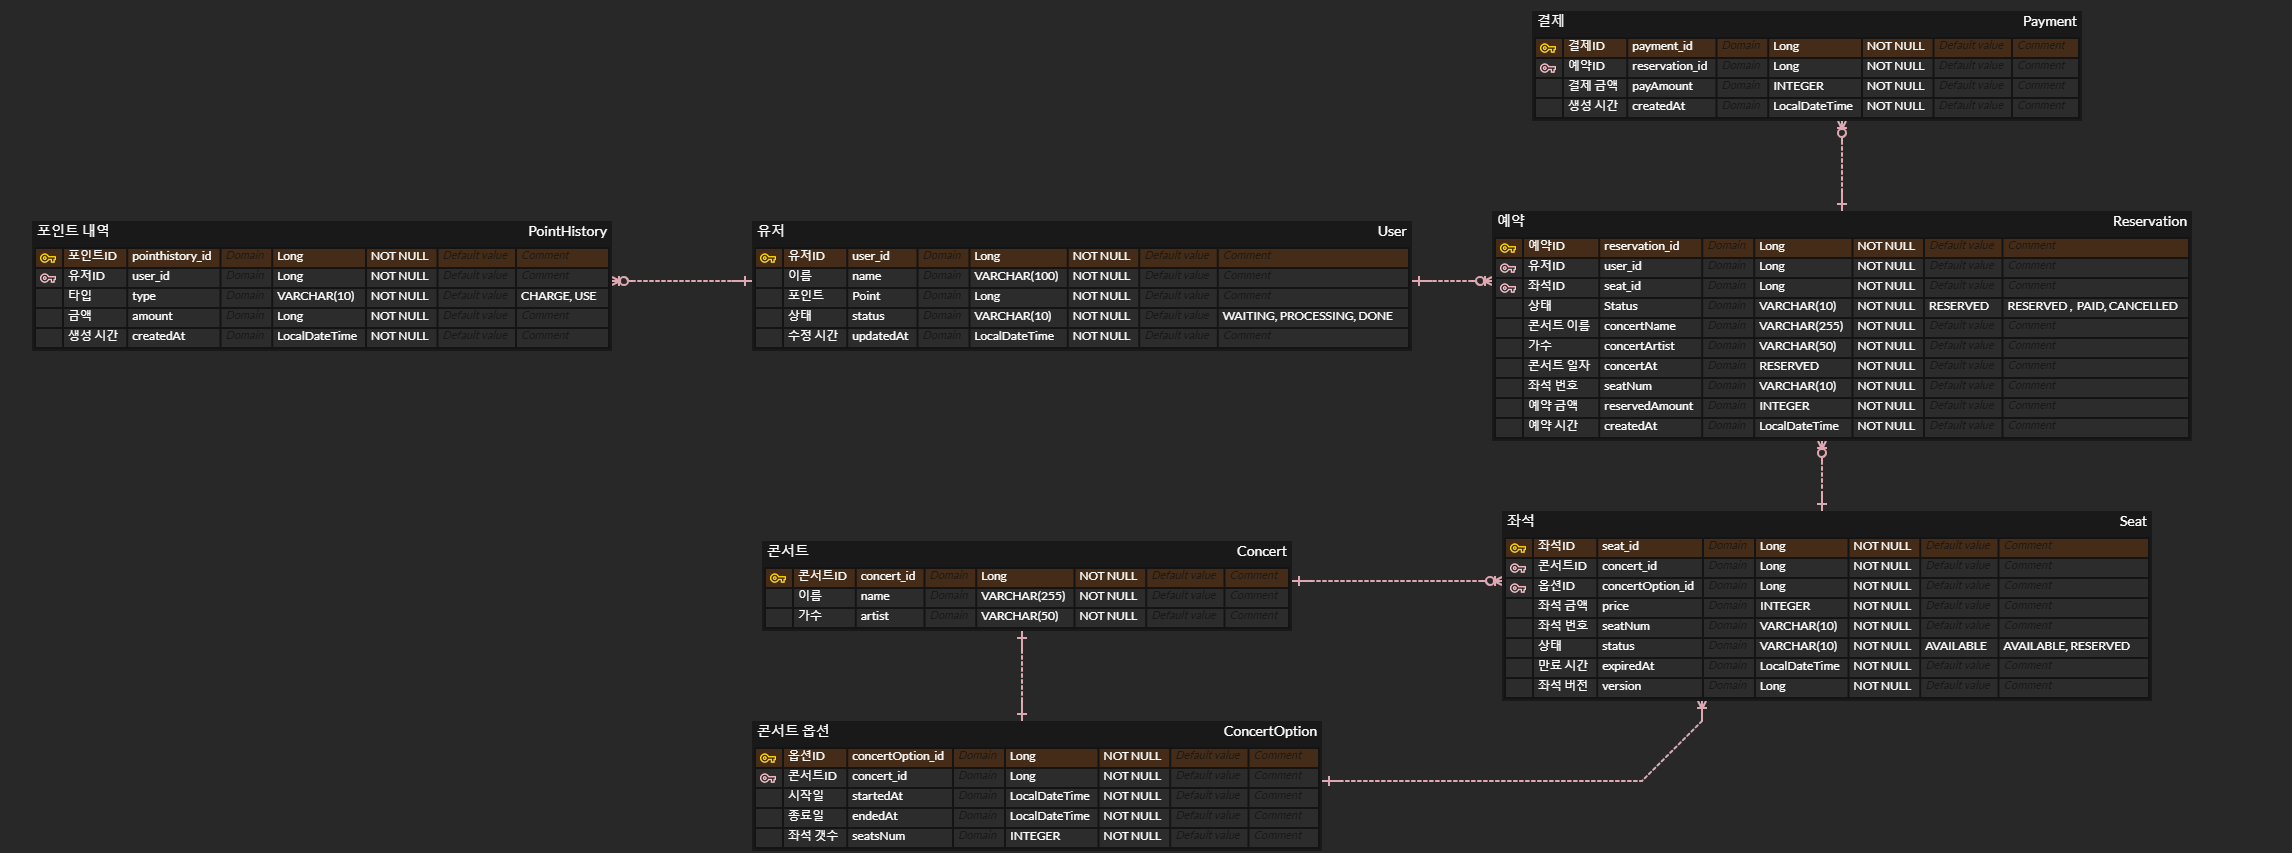
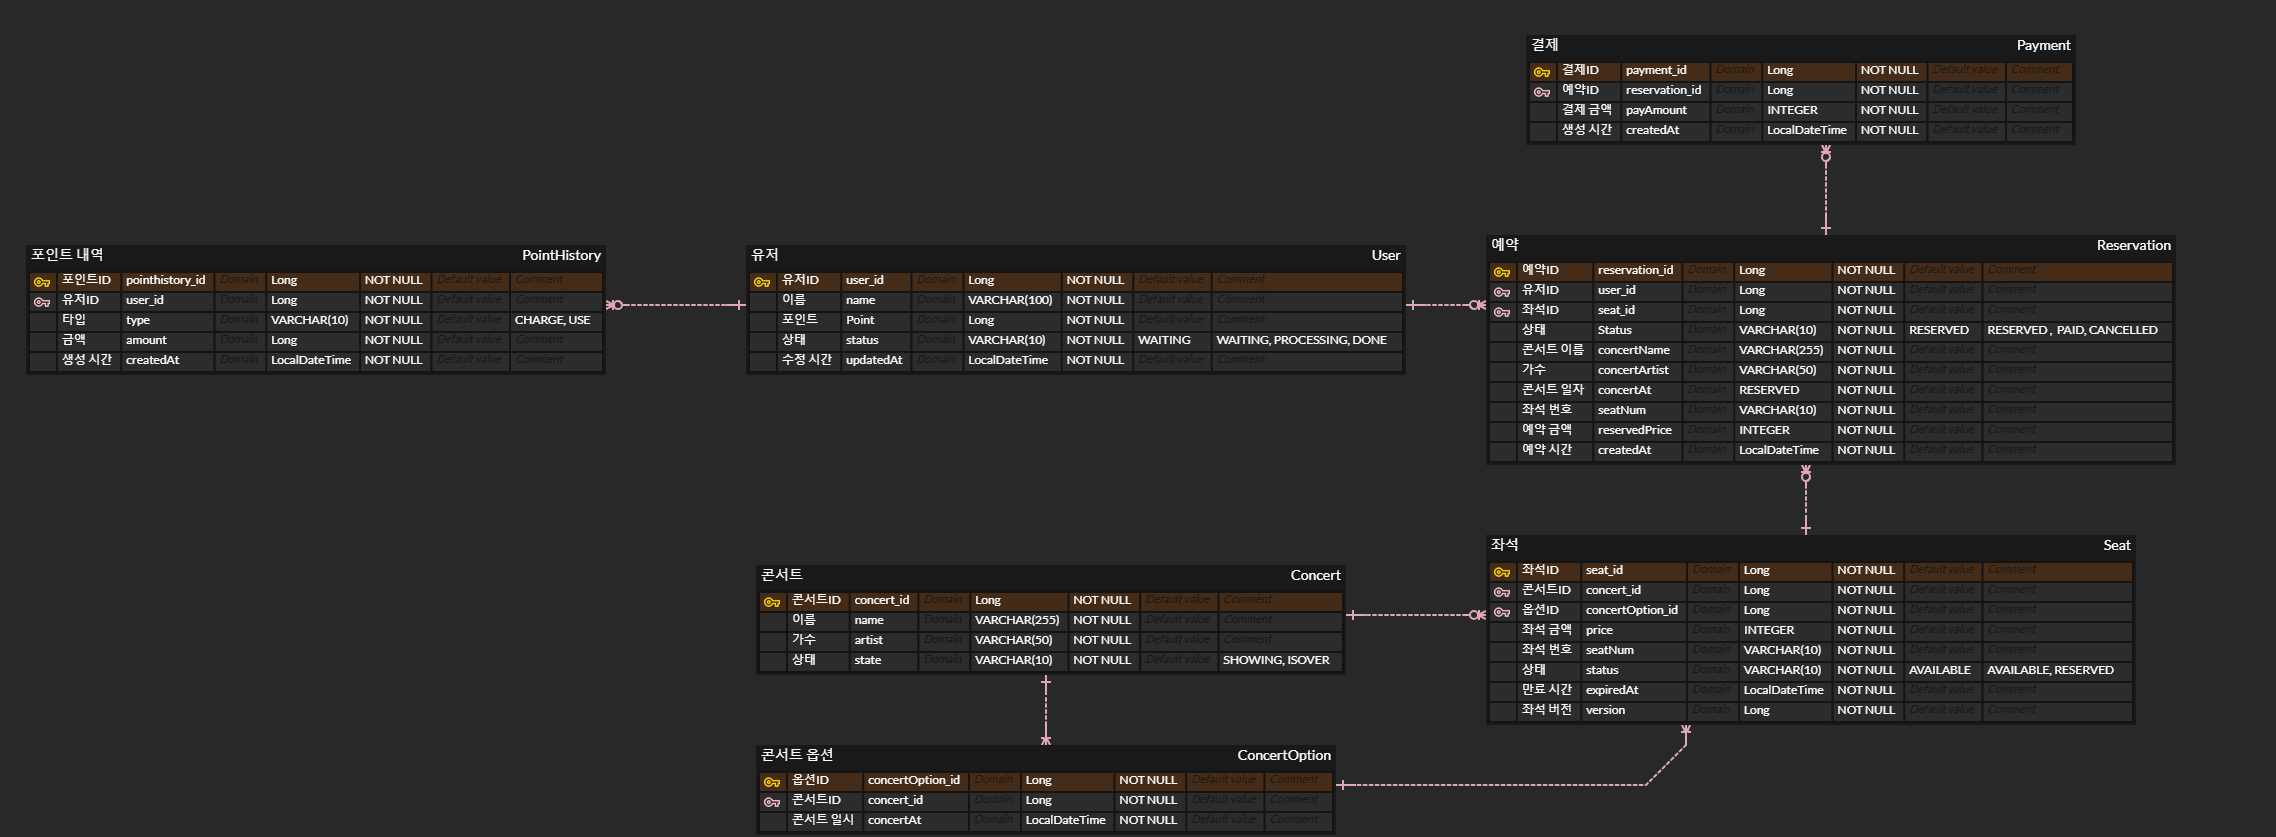
ERD 수정 / 예약 로직 수정

diff --git a/src/test/java/hhplus/serverjava/api/usecase/reservation/MakeReservationUseCaseTest.java b/src/test/java/hhplus/serverjava/api/usecase/reservation/MakeReservationUseCaseTest.java
@@ -47,7 +47,7 @@ public class MakeReservationUseCaseTest {
     */
     @DisplayName("낙관적 락 테스트") // TODO: ING
     @Test
-    void optimistic_lock_test() throws InterruptedException, ExecutionException {
+    void optimistic_lock_test() {
         //given
         ExecutorService executor = Executors.newFixedThreadPool(50);    // 50명이라고 가정
         List<CompletableFuture> futures = new ArrayList<>();
@@ -82,7 +82,7 @@ public class MakeReservationUseCaseTest {
 
             CompletableFuture<Void> future = CompletableFuture.runAsync(() -> {
                 try {
-                    PostReservationRes result = makeReservationUseCase.makeReservation(user, concertId, targetDate, seatNum, reservedAmount);
+                    PostReservationRes result = makeReservationUseCase.makeReservation(user, concertId, targetDate, seatNum);
                     successCnt.incrementAndGet();
                 } catch (BaseException e) {
                     log.error("BaseException : {}", e);

diff --git a/src/main/java/hhplus/serverjava/api/usecase/reservation/MakeReservationUseCase.java b/src/main/java/hhplus/serverjava/api/usecase/reservation/MakeReservationUseCase.java
@@ -29,7 +29,7 @@ public class MakeReservationUseCase {
     private final ConcertOptionReader concertOptionReader;
 
     // 좌석 예약
-    public PostReservationRes makeReservation(User user, Long concertOptionId, LocalDateTime targetDate, int seatNum, int reservedAmount) {
+    public PostReservationRes makeReservation(User user, Long concertOptionId, LocalDateTime targetDate, int seatNum) {
 
         try {
             // 낙관적 락 적용
@@ -47,7 +47,7 @@ public class MakeReservationUseCase {
                     .concertAt(targetDate)
                     .concertName(concert.getName())
                     .concertArtist(concert.getArtist())
-                    .reservedPrice(reservedAmount)
+                    .reservedPrice(seat.getPrice())
                     .build();
 
             Reservation store = reservationStore.makeReservation(reservation);

diff --git a/src/main/java/hhplus/serverjava/api/usecase/concert/FindAvailableSeatsUseCase.java b/src/main/java/hhplus/serverjava/api/usecase/concert/FindAvailableSeatsUseCase.java
@@ -22,10 +22,13 @@ public class FindAvailableSeatsUseCase {
     private final SeatReader seatReader;
     private final ConcertOptionReader concertOptionReader;
 
-    // 예약 가능한 좌석 조회 TODO: 수정必
+    // 예약 가능한 좌석 조회
     public GetSeatsRes execute(Long concertId, LocalDateTime targetDate) {
 
+        // 콘서트 조회
         ConcertOption concertOption = concertOptionReader.findConcertOption(concertId, targetDate);
+
+        // 예약 가능한 좌석 조회
         List<Seat> availableSeats = seatReader.findAvailableSeats(concertId, targetDate, Seat.State.AVAILABLE);
 
         return new GetSeatsRes(concertOption.getId(), availableSeats);
